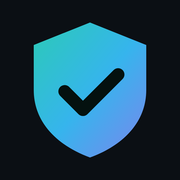
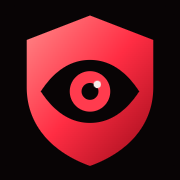
feat(identidade): preview social com a própria criatura, ícone Apple do sigilo e READMEs
og-image.png agora é um quadro renderizado pelo motor (a máscara de Argos
encarando quem recebe o link), sem grão para caber em 176 KB — abaixo do
teto prático de ~300 KB das prévias do WhatsApp. apple-touch-icon.png sai
do sigilo novo (olho dentro do escudo). og-image.svg, ainda o escudo ciano
antigo e sem referência no site, sai do repositório. READMEs (PT/EN)
descrevem o motor, as texturas e o gerador; sitemap com lastmod do redesign.

diff --git a/README.md b/README.md
@@ -20,10 +20,11 @@ HTML semântico + CSS custom (sem framework) + JS sem dependências e sem build
 - `index.html` — single page: hero, serviços, método, Sentinela, credibilidade, pacotes, contato
 - `styles.css` — tema escuro "Cyber Death", mobile-first, design tokens (vermelho sobre quase-preto, contrastes WCAG medidos)
 - `script.js` — IntersectionObserver para reveal, spotlight dos cards de pacote, footer year auto
-- `abismo.js` — o fundo animado em `<canvas>` (o "abismo" de binário atrás do conteúdo)
+- `abismo.js` — **Argos, a máscara de cem olhos**: o fundo vivo em WebGL2 (o corpo é ASCII/binário com hachura de gravura; os olhos são nítidos e seguem o ponteiro; o cursor é uma lanterna que decodifica o binário em palavras). Fallback 2D sem WebGL2, quadro estático em `prefers-reduced-motion`, botão de pausa (WCAG 2.2.2), qualidade adaptativa e nenhuma requisição de rede
+- `mascara-n.png` / `mascara-m.png` — mapas de normal e de máscara do relevo, gerados de forma reproduzível por `arte/gerar_mascara.py` (Python + numpy)
 - `i18n.js` — troca de idioma PT/EN no cliente (ver abaixo)
 - `fonts/` — Inter, JetBrains Mono, League Gothic e Cormorant Garamond **auto-hospedadas** (SIL OFL 1.1, ver `fonts/LICENSE-fontes.md`)
-- `favicon.svg` / `apple-touch-icon.png` / `og-image.svg` / `og-image.png` — identidade visual (escudo)
+- `favicon.svg` / `apple-touch-icon.png` / `og-image.png` — identidade visual (sigilo: um olho dentro do escudo); a `og-image.png` é um quadro renderizado pelo próprio motor
 - `avatar.jpg` — foto de perfil, também auto-hospedada
 - `robots.txt` + `sitemap.xml` — SEO básico
 - `.well-known/security.txt` — canal de divulgação responsável (RFC 9116)

diff --git a/README.en.md b/README.en.md
@@ -20,10 +20,11 @@ Semantic HTML + custom CSS (no framework) + dependency-free, build-free JS
 - `index.html` — single page: hero, services, method, Sentinela, credibility, packages, contact
 - `styles.css` — "Cyber Death" dark theme, mobile-first, design tokens (red on near-black, measured WCAG contrast)
 - `script.js` — IntersectionObserver for reveal, spotlight on the package cards, auto footer year
-- `abismo.js` — the animated `<canvas>` background (the binary "abyss" behind the content)
+- `abismo.js` — **Argos, the hundred-eyed mask**: the living WebGL2 background (the body is ASCII/binary with engraving-style hatching; the eyes are crisp and follow the pointer; the cursor is a lantern that decodes the binary into words). 2D fallback without WebGL2, a static frame under `prefers-reduced-motion`, a pause button (WCAG 2.2.2), adaptive quality, and zero network requests
+- `mascara-n.png` / `mascara-m.png` — normal and mask maps for the relief, reproducibly generated by `arte/gerar_mascara.py` (Python + numpy)
 - `i18n.js` — client-side PT/EN language toggle (see below)
 - `fonts/` — Inter, JetBrains Mono, League Gothic, and Cormorant Garamond **self-hosted** (SIL OFL 1.1, see `fonts/LICENSE-fontes.md`)
-- `favicon.svg` / `apple-touch-icon.png` / `og-image.svg` / `og-image.png` — visual identity (shield)
+- `favicon.svg` / `apple-touch-icon.png` / `og-image.png` — visual identity (sigil: an eye inside a shield); `og-image.png` is a frame rendered by the engine itself
 - `avatar.jpg` — profile photo, also self-hosted
 - `robots.txt` + `sitemap.xml` — basic SEO
 - `.well-known/security.txt` — responsible disclosure channel (RFC 9116)
